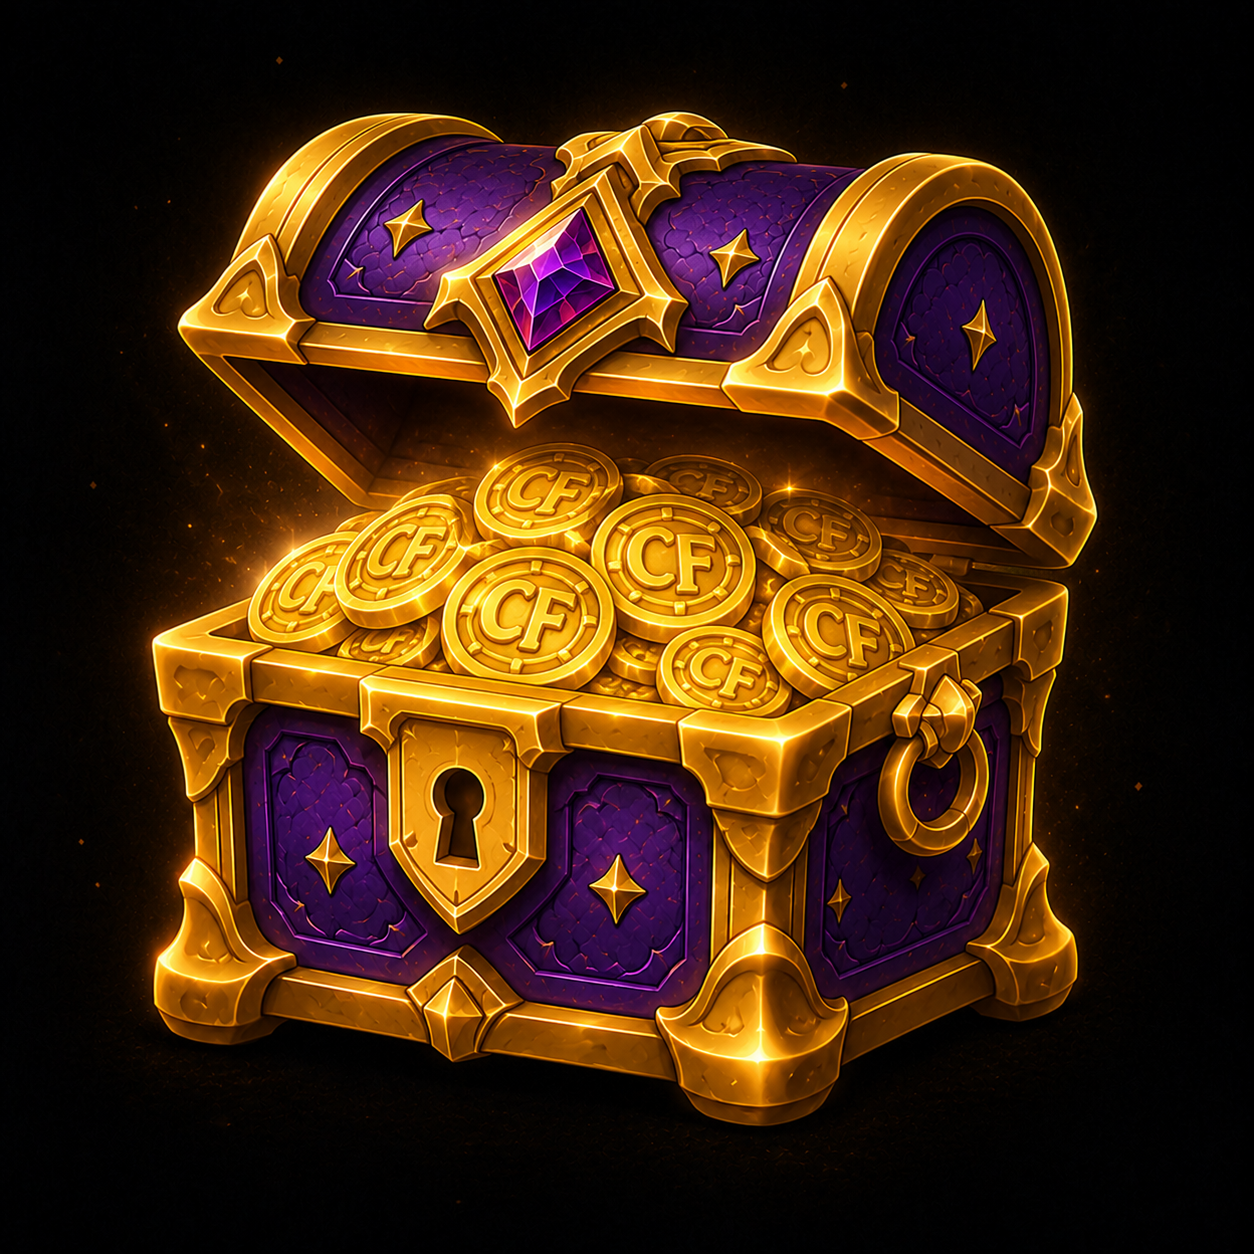
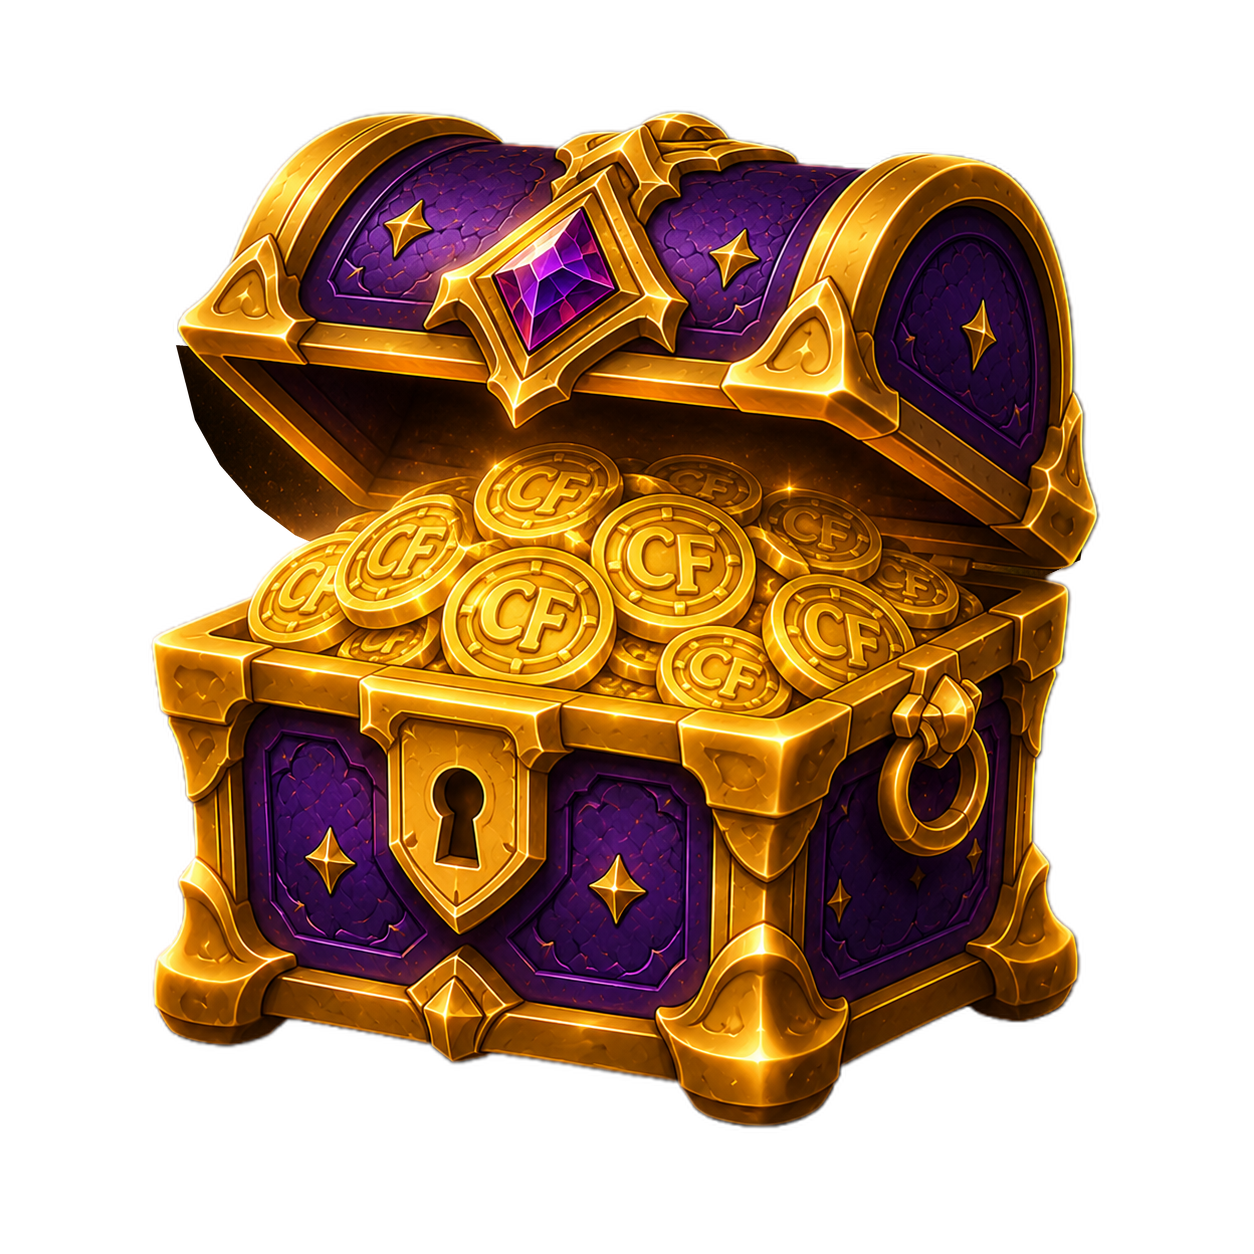
real chest opening screen v4

diff --git a/frontend/src/static/js/pages/wallet-buy-flow.js b/frontend/src/static/js/pages/wallet-buy-flow.js
@@ -721,6 +721,7 @@
     )
     : null;
   let chestOpeningTimers = [];
+  let chestOpeningRarity = 'reward';
 
   function clearChestOpeningTimers() {
     chestOpeningTimers.forEach(function (timerId) {
@@ -760,19 +761,18 @@
     chestOpeningOverlay.hidden = false;
     chestOpeningOverlay.setAttribute('aria-hidden', 'false');
     chestOpeningOverlay.setAttribute('data-state', 'closed');
+    chestOpeningRarity = String(
+      opening.rarity || 'reward'
+    ).toLowerCase();
     chestOpeningOverlay.setAttribute(
       'data-rarity',
-      String(opening.rarity || 'reward').toLowerCase()
+      'mystery'
     );
 
     setChestOpeningText(
       '[data-wallet-chest-opening-source]',
       opening.rarity_label ||
         String(opening.rarity || 'reward').toUpperCase()
-    );
-    setChestOpeningText(
-      '[data-wallet-chest-opening-title]',
-      opening.chest_label || 'Reward Chest'
     );
     setChestOpeningText(
       '[data-wallet-chest-opening-amount]',
@@ -834,6 +834,10 @@
     }
 
     chestOpeningTimers.push(window.setTimeout(function () {
+      chestOpeningOverlay.setAttribute(
+        'data-rarity',
+        chestOpeningRarity
+      );
       chestOpeningOverlay.setAttribute('data-state', 'opened');
     }, 620));
 
@@ -841,7 +845,7 @@
       chestOpeningOverlay.setAttribute('data-state', 'revealed');
       setChestOpeningText(
         '[data-wallet-chest-opening-hint]',
-        'Reward unlocked'
+        ''
       );
     }, 930));
 

diff --git a/frontend/src/static/css/WalletPage.scss b/frontend/src/static/css/WalletPage.scss
@@ -3918,7 +3918,7 @@ body.wallet-chest-opening-active {
 }
 
 .wallet-chest-opening__drop {
-  top: 6px;
+  top: 2.8rem;
   width: 100%;
   display: grid;
   justify-items: center;
@@ -3937,7 +3937,7 @@ body.wallet-chest-opening-active {
   align-items: center;
   justify-content: center;
   gap: 7px;
-  margin-top: 1px;
+  margin-top: 0.7rem;
 }
 
 .wallet-chest-opening__amount strong {
@@ -4089,4 +4089,52 @@ body.wallet-chest-opening-active {
     min-height: 40px;
     margin-top: 7px;
   }
+}
+
+/* chest-opening-surprise-v4 */
+.wallet-chest-opening[data-rarity="mystery"] {
+  --chest-glow: #8991a2;
+}
+
+.wallet-chest-opening__scene {
+  grid-template-rows:
+    auto
+    minmax(0, 1fr)
+    auto
+    auto;
+  transition:
+    border-color 240ms ease,
+    box-shadow 240ms ease,
+    background 240ms ease;
+}
+
+.wallet-chest-opening__title {
+  display: none;
+}
+
+.wallet-chest-opening__source {
+  opacity: 0;
+  visibility: hidden;
+  transform: translateY(-5px);
+  transition:
+    opacity 220ms ease,
+    transform 220ms ease,
+    visibility 0s linear 220ms;
+}
+
+.wallet-chest-opening[data-state="opened"]
+  .wallet-chest-opening__source,
+.wallet-chest-opening[data-state="revealed"]
+  .wallet-chest-opening__source {
+  opacity: 1;
+  visibility: visible;
+  transform: translateY(0);
+  transition-delay: 0s;
+}
+
+.wallet-chest-opening[data-state="revealed"]
+  .wallet-chest-opening__hint {
+  min-height: 0;
+  margin: 0;
+  opacity: 0;
 }

diff --git a/templates/cms/wallet.html b/templates/cms/wallet.html
@@ -521,7 +521,7 @@
   class="wallet-chest-opening"
   data-wallet-chest-opening
   data-state="closed"
-  data-rarity="reward"
+  data-rarity="mystery"
   hidden
   aria-hidden="true"
 >
@@ -531,18 +531,13 @@
     class="wallet-chest-opening__scene"
     role="dialog"
     aria-modal="true"
-    aria-labelledby="wallet-chest-opening-title"
+    aria-label="Reward chest opening"
   >
     <div
       class="wallet-chest-opening__source"
       data-wallet-chest-opening-source
     >REWARD</div>
 
-    <h2
-      id="wallet-chest-opening-title"
-      class="wallet-chest-opening__title"
-      data-wallet-chest-opening-title
-    >Reward Chest</h2>
 
     <div class="wallet-chest-opening__stage">
       <div class="wallet-chest-opening__rays" aria-hidden="true"></div>
